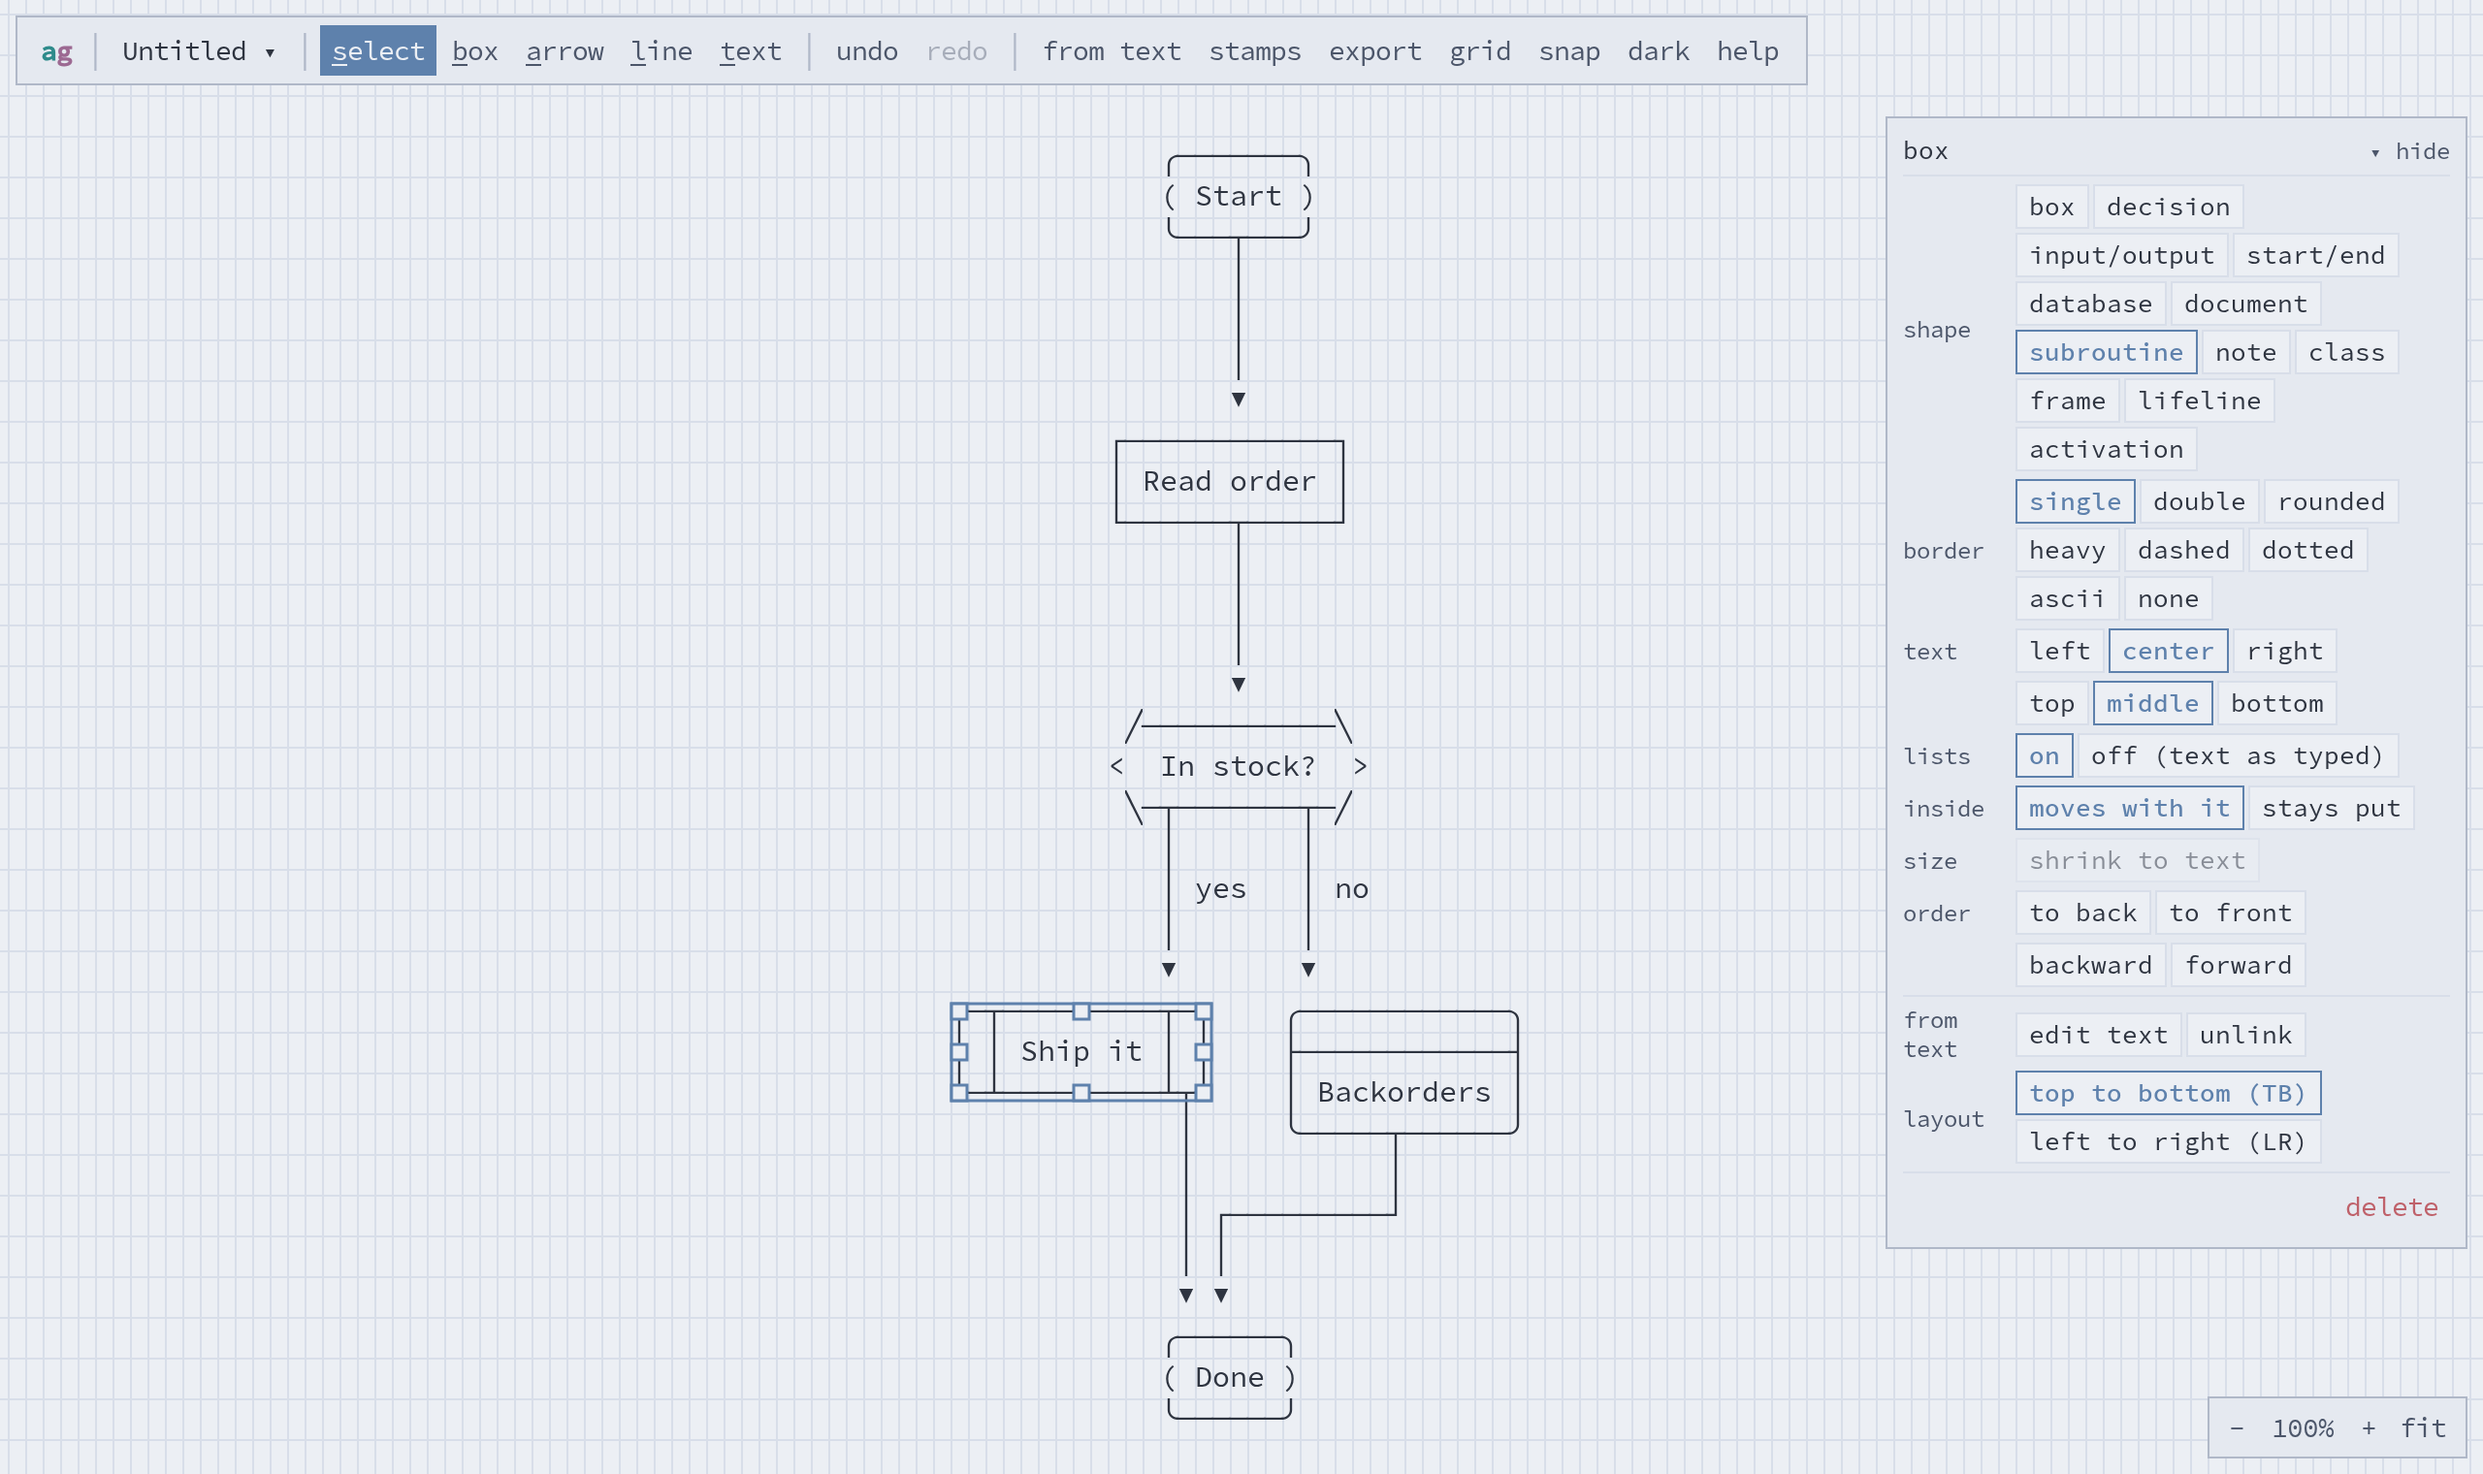
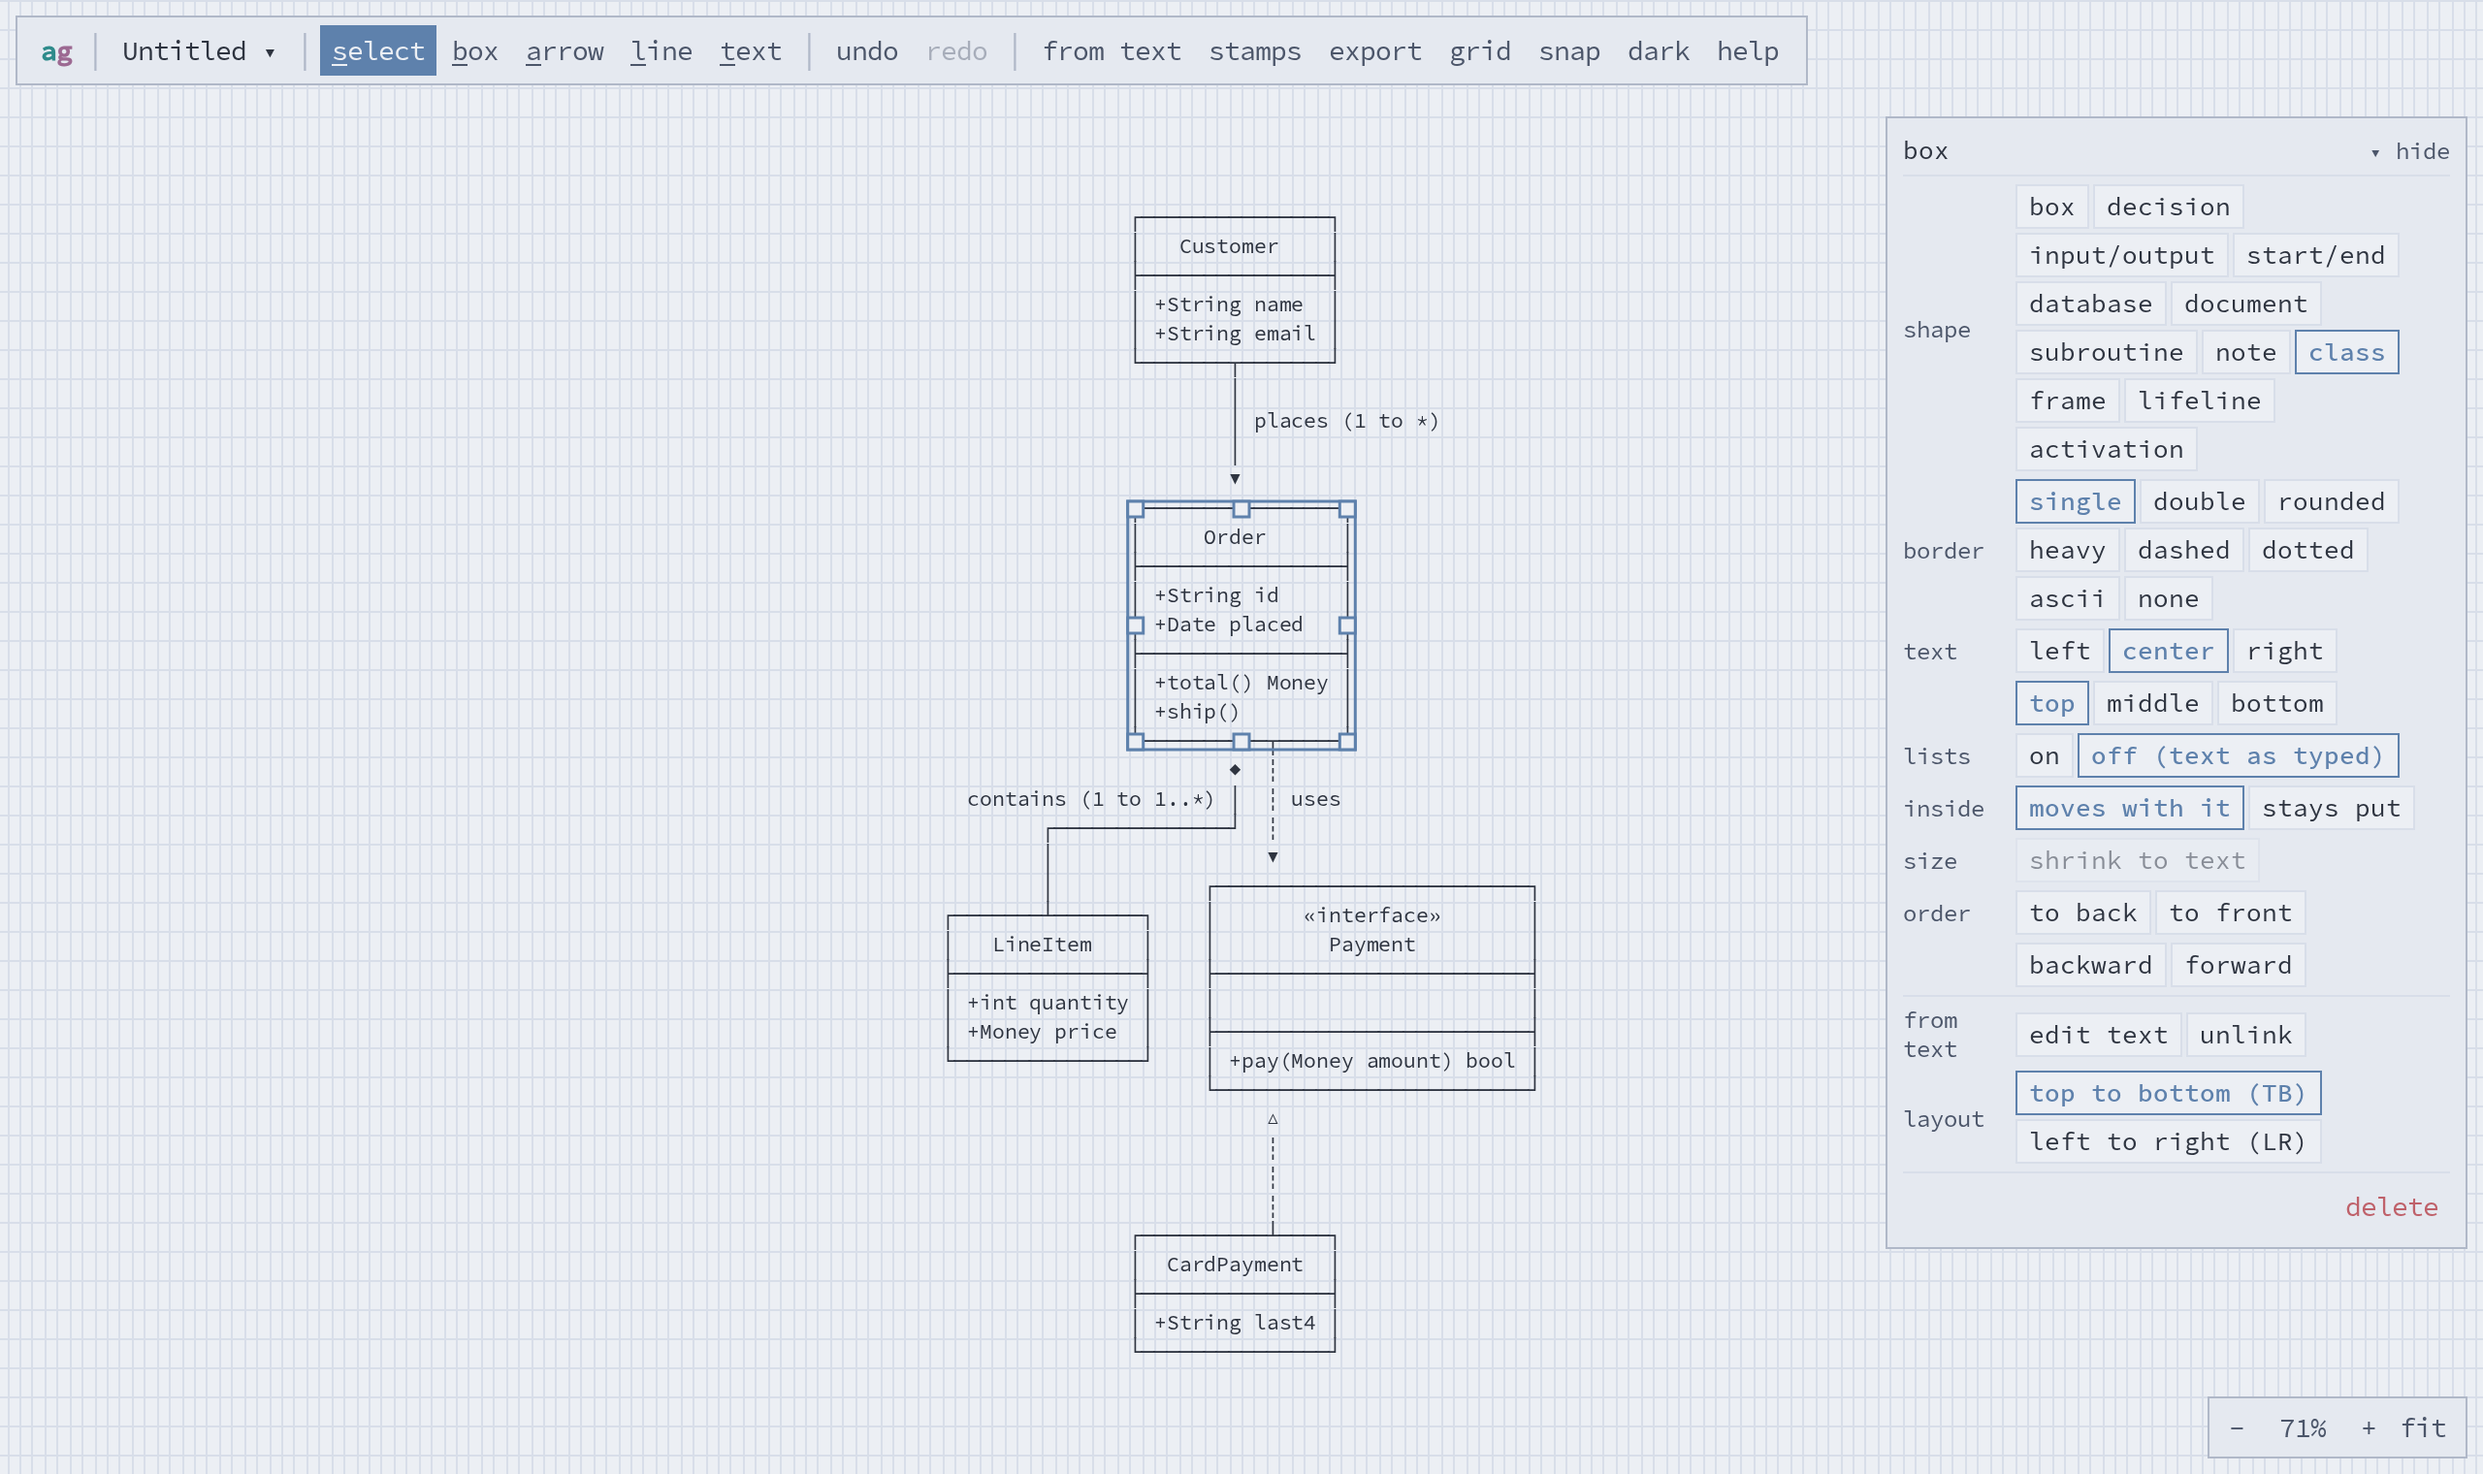
README overview screenshot: a class diagram

diff --git a/docs/screenshots.spec.js b/docs/screenshots.spec.js
@@ -59,11 +59,40 @@ const SEQUENCE = `sequenceDiagram
     end
     C-xA: cancel (lost)`;
 
-test("overview: a flowchart with the properties panel", async ({ page }) => {
+const CLASSES = `classDiagram
+    class Order {
+      +String id
+      +Date placed
+      +total() Money
+      +ship()
+    }
+    class LineItem {
+      +int quantity
+      +Money price
+    }
+    class Customer {
+      +String name
+      +String email
+    }
+    class Payment {
+      <<interface>>
+      +pay(Money amount) bool
+    }
+    class CardPayment {
+      +String last4
+    }
+    Customer "1" --> "*" Order : places
+    Order "1" *-- "1..*" LineItem : contains
+    Order ..> Payment : uses
+    Payment <|.. CardPayment`;
+
+test("overview: a class diagram with the properties panel", async ({ page }) => {
   await open(page);
-  await drawFromText(page, FLOWCHART);
+  await drawFromText(page, CLASSES);
   await deselect(page);
-  await clickNode(page, "Ship it");
+  await page.getByRole("button", { name: "fit" }).click();
+  await page.waitForTimeout(200);
+  await clickNode(page, "Order");
   await shot(page, "overview.png");
 });
 

diff --git a/README.md b/README.md
@@ -16,7 +16,7 @@ auto-generate a result.  You can then move and reposition objects, lines, and ar
 You can then export the result as Unicode box drawing or plain ASCII, ready to paste into a README,
 a code comment, a commit message or a chat.
 
-![A flowchart in asciigraph, with the properties panel open](docs/images/overview.png)
+![A class diagram in asciigraph, drawn from Mermaid, with a class selected and the properties panel open](docs/images/overview.png)
 
 Here is what a sample textual export looks like, for a diagram drawn from four lines of Mermaid
 (`A[Browser] -->|HTTPS| B[API]` …):
